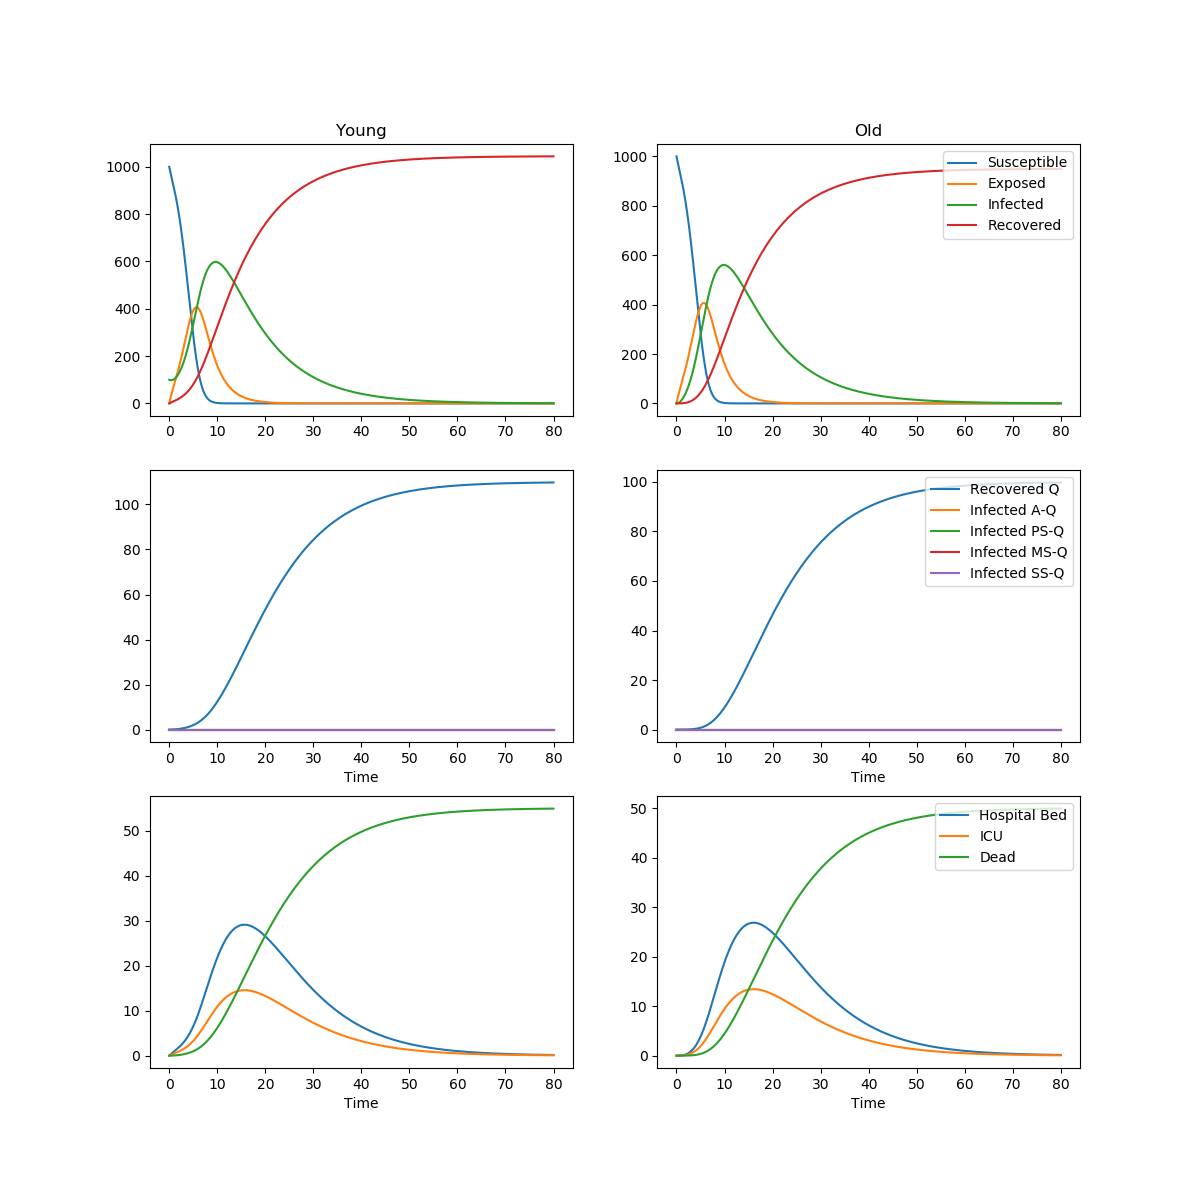
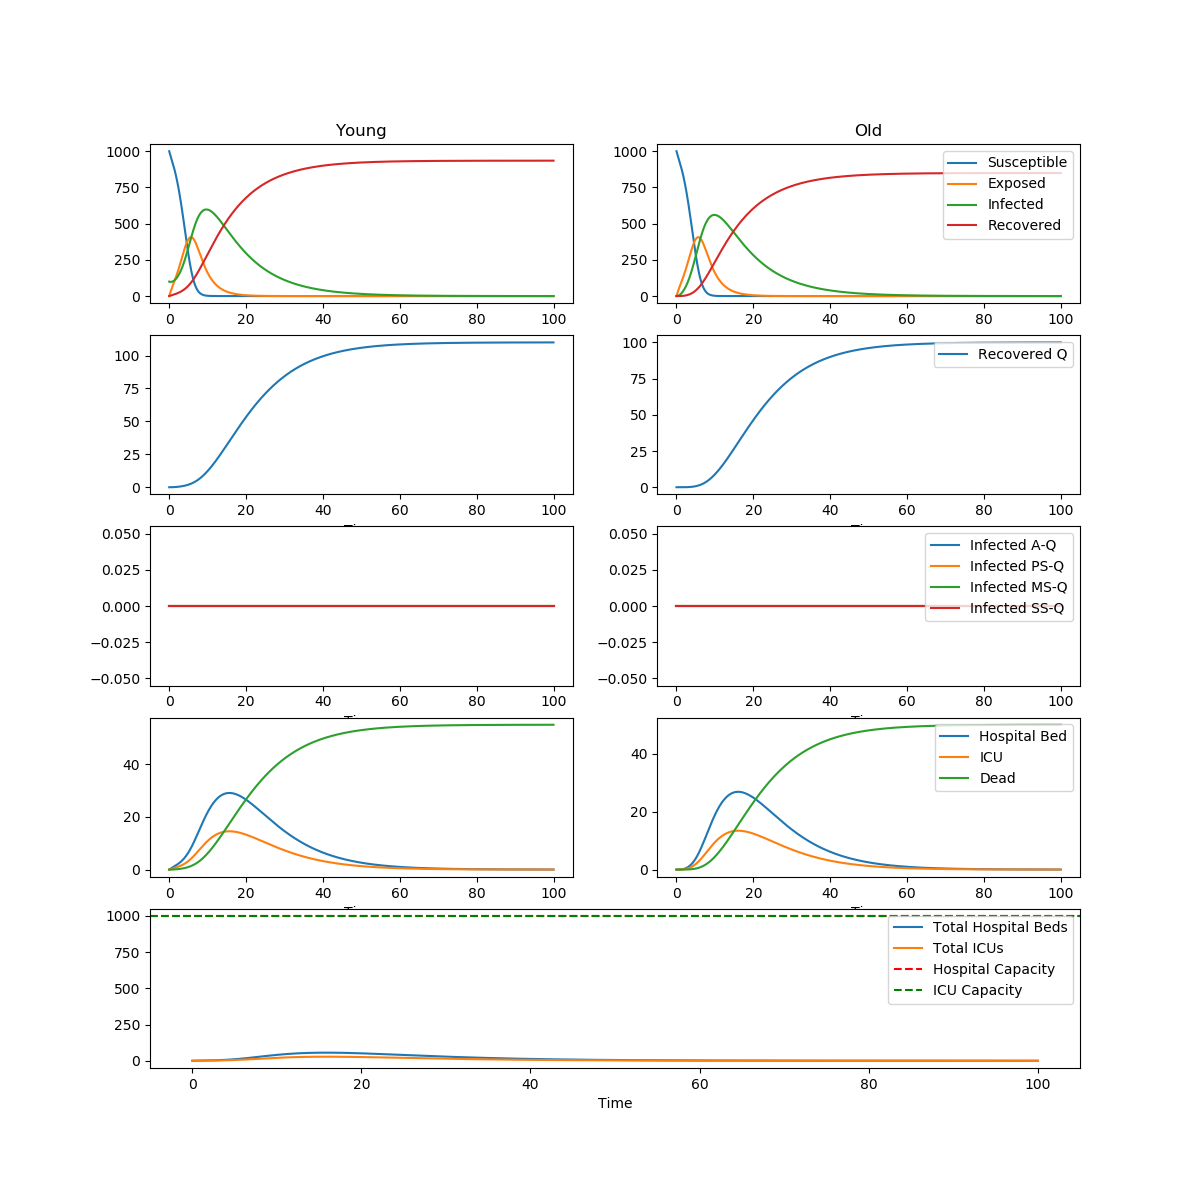
added tests

diff --git a/testing/test.py b/testing/test.py
@@ -25,7 +25,7 @@ with open(args.data) as file:
 
 # Set up parameters of simulation
 dt = 0.1
-total_time = 80
+total_time = 100
 
 time_periods = int(round(total_time/dt))
 
@@ -48,14 +48,14 @@ time_axis = [i*dt for i in range(time_periods+1)]
 
 
 plt.figure(1)
-plt.subplot(3,2,1)
+plt.subplot(5,2,1)
 plt.plot(time_axis, dynModel.groups['young'].S, label="Susceptible")
 plt.plot(time_axis, dynModel.groups['young'].E, label="Exposed")
 plt.plot(time_axis, dynModel.groups['young'].I, label="Infected")
 plt.plot(time_axis, dynModel.groups['young'].R, label="Recovered")
 plt.title('Young')
 
-plt.subplot(3,2,2)
+plt.subplot(5,2,2)
 plt.plot(time_axis, dynModel.groups['old'].S, label="Susceptible")
 plt.plot(time_axis, dynModel.groups['old'].E, label="Exposed")
 plt.plot(time_axis, dynModel.groups['old'].I, label="Infected")
@@ -63,16 +63,23 @@ plt.plot(time_axis, dynModel.groups['old'].R, label="Recovered")
 plt.legend(loc='upper right')
 plt.title('Old')
 
-plt.subplot(3,2,3)
+plt.subplot(5,2,3)
 plt.plot(time_axis, dynModel.groups['young'].Rq, label="Recovered Q")
+plt.xlabel('Time')
+
+plt.subplot(5,2,4)
+plt.plot(time_axis, dynModel.groups['old'].Rq, label="Recovered Q")
+plt.legend(loc='upper right')
+plt.xlabel('Time')
+
+plt.subplot(5,2,5)
 plt.plot(time_axis, dynModel.groups['young'].Ia, label="Infected A-Q")
 plt.plot(time_axis, dynModel.groups['young'].Ips, label="Infected PS-Q")
 plt.plot(time_axis, dynModel.groups['young'].Ims, label="Infected MS-Q")
 plt.plot(time_axis, dynModel.groups['young'].Iss, label="Infected SS-Q")
 plt.xlabel('Time')
 
-plt.subplot(3,2,4)
-plt.plot(time_axis, dynModel.groups['old'].Rq, label="Recovered Q")
+plt.subplot(5,2,6)
 plt.plot(time_axis, dynModel.groups['old'].Ia, label="Infected A-Q")
 plt.plot(time_axis, dynModel.groups['old'].Ips, label="Infected PS-Q")
 plt.plot(time_axis, dynModel.groups['old'].Ims, label="Infected MS-Q")
@@ -81,22 +88,33 @@ plt.legend(loc='upper right')
 plt.xlabel('Time')
 
 
-plt.subplot(3,2,5)
+plt.subplot(5,2,7)
 plt.plot(time_axis, dynModel.groups['young'].H, label="Hospital Bed")
 plt.plot(time_axis, dynModel.groups['young'].ICU, label="ICU")
 plt.plot(time_axis, dynModel.groups['young'].D, label="Dead")
 plt.xlabel('Time')
 
 
-plt.subplot(3,2,6)
+plt.subplot(5,2,8)
 plt.plot(time_axis, dynModel.groups['old'].H, label="Hospital Bed")
 plt.plot(time_axis, dynModel.groups['old'].ICU, label="ICU")
 plt.plot(time_axis, dynModel.groups['old'].D, label="Dead")
 plt.legend(loc='upper right')
 plt.xlabel('Time')
 
+plt.subplot(5,1,5)
+plt.plot(time_axis, [dynModel.groups['old'].H[i] + dynModel.groups['young'].H[i] for i in range(len(time_axis))], label="Total Hospital Beds")
+plt.plot(time_axis, [dynModel.groups['old'].ICU[i] + dynModel.groups['young'].ICU[i] for i in range(len(time_axis))], label="Total ICUs")
+plt.axhline(y=parameters['global-parameters']['C_H'], color='r', linestyle='dashed', label= "Hospital Capacity")
+plt.axhline(y=parameters['global-parameters']['C_ICU'], color='g', linestyle='dashed', label= "ICU Capacity")
+plt.legend(loc='upper right')
+plt.xlabel('Time')
+
+
 
 figure = plt.gcf() # get current figure
 figure.set_size_inches(12, 12)
 plt.savefig(args.data.split(".")[0]+".png", dpi = 100)
+
+# print([dynModel.groups['old'].ICU[i] + dynModel.groups['young'].ICU[i] for i in range(len(time_axis))])
 

diff --git a/testing/README.md b/testing/README.md
@@ -1,5 +1,11 @@
 # Testing
 
+To run a test use ```test.py``` and use ```-data``` as the flag for the input data. Script will produce a graph of dynamics
+
+```
+python test.py -data case2.yaml
+```
+
 Case 1:
 * Two populations with exactly the same parameters
 * Young population is initially infected, old population is not
@@ -8,4 +14,10 @@ Case 1:
 * Unlimited beds and ICUs
 
 Case 2:
-* Same as Case 1, but limited beds and ICUs
+* Same as Case 1, but limited beds to 20 and ICUs to 10
+
+Case 3
+* Same as Case 2, but each day, 10 molecular tests are applied to each group
+
+Case 4
+* Same as Case 2, but each day, 10 antibody tests are applied to each group
